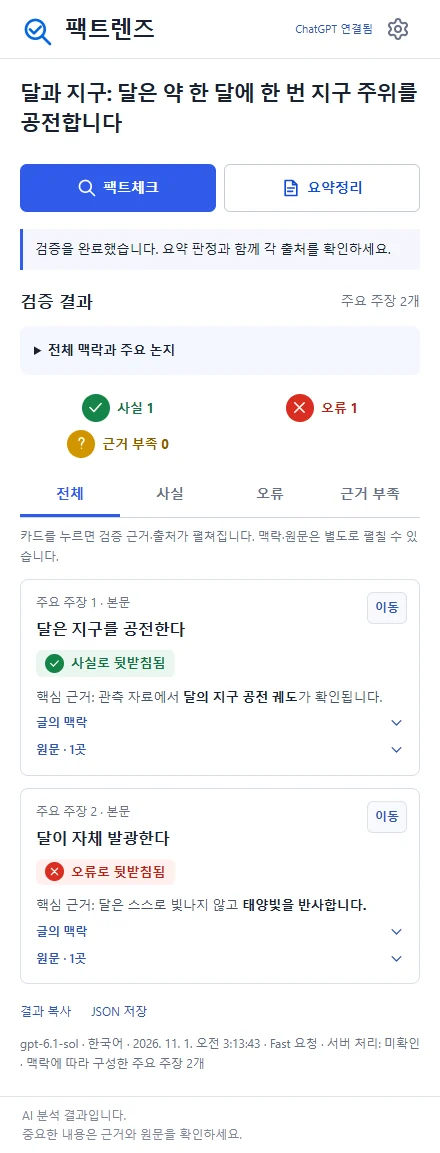
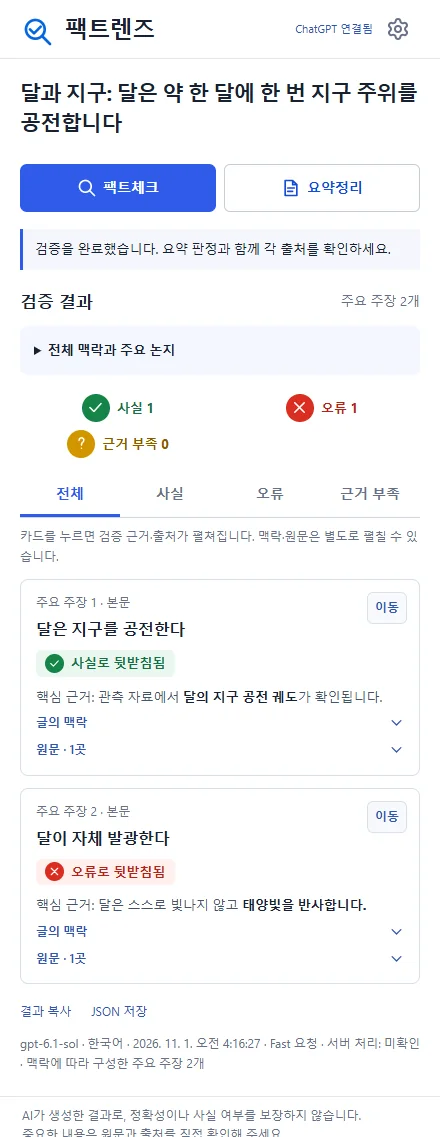
Release Fact Lens 0.1.20 privacy link and AI accuracy disclaimer

diff --git a/day-017-fact-lens/README.md b/day-017-fact-lens/README.md
@@ -7,13 +7,13 @@
 <p align="center">읽던 글, 근거까지.<br>페이지 옆에서 팩트체크하고 요약하세요.</p>
 
 <p align="center">
-  <a href="https://github.com/hssum9409/daily_odd_builds-public/releases/tag/day017-fact-lens-v0.1.19"><img alt="버전 0.1.19" src="https://img.shields.io/badge/version-0.1.19-2955df"></a>
+  <a href="https://github.com/hssum9409/daily_odd_builds-public/releases/tag/day017-fact-lens-v0.1.20"><img alt="버전 0.1.20" src="https://img.shields.io/badge/version-0.1.20-2955df"></a>
   <img alt="Windows Chrome 검증" src="https://img.shields.io/badge/Windows_Chrome-tested-2955df">
   <img alt="ZIP 수동 설치" src="https://img.shields.io/badge/install-ZIP-343c50">
   <img alt="원본 소스 비공개" src="https://img.shields.io/badge/source-private-343c50">
 </p>
 
-<p align="center"><b><a href="https://github.com/hssum9409/daily_odd_builds-public/releases/download/day017-fact-lens-v0.1.19/fact-lens-0.1.19.zip">Chrome 확장 ZIP 다운로드 →</a></b> · <a href="docs/INSTALLATION.md">설치·업데이트 안내</a> · <a href="docs/PRIVACY.md">데이터 처리</a></p>
+<p align="center"><b><a href="https://github.com/hssum9409/daily_odd_builds-public/releases/download/day017-fact-lens-v0.1.20/fact-lens-0.1.20.zip">Chrome 확장 ZIP 다운로드 →</a></b> · <a href="docs/INSTALLATION.md">설치·업데이트 안내</a> · <a href="https://daily-odd-builds-portal.web.app/privacy/fact-lens">개인정보취급방침</a></p>
 
 ![팩트렌즈 — 페이지와 오른쪽 사이드패널을 표현한 대표 일러스트](docs/images/hero.webp)
 
@@ -70,7 +70,7 @@ Daily Odd Builds **Day 017 · 2026-10-28**. 첫 ZIP 공개는 2026-11-01이며, 
 
 검증이 필요하면 **팩트체크**, 먼저 글을 정리하고 싶으면 **요약정리**를 누릅니다. 진행 중인 기능의 버튼에만 진행 표시가 나타납니다. 페이지가 바뀌면 **페이지 내용 반영하기**를 눌러 새 내용을 읽습니다.
 
-톱니바퀴 설정에서 **언어, Fast, 최대 주장 수, 모델**을 바꿉니다. Fast는 기본으로 켜져 있으며 계정·모델 지원에 따라 일반 처리로 복구하고 결과에 알립니다. 원문 인용은 원래 언어로 유지합니다.
+톱니바퀴 설정에서 **언어, Fast, 최대 주장 수, 모델**을 바꿉니다. 설정 맨 아래의 작은 **개인정보취급방침** 링크로 공개 방침을 열 수 있습니다. Fast는 기본으로 켜져 있으며 계정·모델 지원에 따라 일반 처리로 복구하고 결과에 알립니다. 원문 인용은 원래 언어로 유지합니다.
 
 <details>
 <summary>설정 화면 보기</summary>
@@ -83,7 +83,9 @@ Daily Odd Builds **Day 017 · 2026-10-28**. 첫 ZIP 공개는 2026-11-01이며, 
 
 ChatGPT 로그인은 OpenAI의 화면에서 진행합니다. 로그인 정보는 해당 Chrome 프로필 안에서 관리하고 갱신합니다. 팩트체크·요약을 실행하면 선택한 페이지의 본문·제목·맥락과 포함한 댓글·이미지가 OpenAI로 전송됩니다. 팩트체크는 외부 웹 검색도 사용합니다. 민감한 글은 전송 내용을 먼저 확인해 주세요.
 
-페이지를 읽기 위한 **모든 사이트 접근 권한**을 요청합니다. 페이지 방문만으로 본문을 자동 업로드하지 않습니다. 입력 중인 폼·비밀번호·작성 초안 등은 추출에서 제외하도록 처리합니다. 오류 리포트는 별도 서버로 **사용자가 전송할 때만** 보내며 본문·URL·제목·계정·토큰을 포함하지 않습니다. [전체 데이터 처리 안내](docs/PRIVACY.md)
+페이지를 읽기 위한 **모든 사이트 접근 권한**을 요청합니다. 페이지 방문만으로 본문을 자동 업로드하지 않습니다. 입력 중인 폼·비밀번호·작성 초안 등은 추출에서 제외하도록 처리합니다. 오류 리포트는 별도 서버로 **사용자가 전송할 때만** 보내며 본문·URL·제목·계정·토큰을 포함하지 않습니다. [개인정보취급방침](https://daily-odd-builds-portal.web.app/privacy/fact-lens) · [간단한 데이터 처리 안내](docs/PRIVACY.md)
+
+패널 하단에는 **AI가 생성한 결과로, 정확성이나 사실 여부를 보장하지 않습니다.**라는 안내를 작은 글씨로 표시합니다. 중요한 내용은 원문과 출처를 직접 확인해 주세요.
 
 ## 지원 범위와 확인한 한계
 

diff --git a/day-017-fact-lens/docs/INSTALLATION.md b/day-017-fact-lens/docs/INSTALLATION.md
@@ -4,7 +4,7 @@
 
 ## 처음 설치
 
-1. [0.1.19 ZIP 다운로드](https://github.com/hssum9409/daily_odd_builds-public/releases/download/day017-fact-lens-v0.1.19/fact-lens-0.1.19.zip).
+1. [0.1.20 ZIP 다운로드](https://github.com/hssum9409/daily_odd_builds-public/releases/download/day017-fact-lens-v0.1.20/fact-lens-0.1.20.zip).
 2. 계속 보관할 폴더에 압축을 풉니다. 예: `문서/팩트렌즈`. 파일 탐색기에서 ZIP 안을 열어 보기만 하는 것으로는 설치되지 않습니다.
 3. Chrome에서 `chrome://extensions`를 엽니다.
 4. 오른쪽 위 **개발자 모드**를 켭니다.
@@ -18,7 +18,7 @@
 
 ## 업데이트하면서 로그인·설정 유지
 
-1. [팩트렌즈 전용 릴리즈](https://github.com/hssum9409/daily_odd_builds-public/releases/tag/day017-fact-lens-v0.1.19)의 ZIP을 받습니다. 저장소 전체의 Latest는 다른 Day일 수 있습니다.
+1. [팩트렌즈 전용 릴리즈](https://github.com/hssum9409/daily_odd_builds-public/releases/tag/day017-fact-lens-v0.1.20)의 ZIP을 받습니다. 저장소 전체의 Latest는 다른 Day일 수 있습니다.
 2. **처음 설치에 사용한 같은 폴더**에 새 파일을 덮어씁니다.
 3. `chrome://extensions`에서 기존 팩트렌즈의 **새로고침**을 누르고 패널을 다시 엽니다.
 

diff --git a/README.md b/README.md
@@ -117,7 +117,7 @@ Chrome Manifest V3 · 설치 후보 사전 공개 · 실제 게임 인증/티어
 
 읽던 페이지의 핵심 주장과 외부 근거를 Chrome 사이드패널에서 확인하고, 선택한 언어로 요약합니다. ChatGPT 계정 연결, 이미지·댓글 맥락과 원문 이동을 지원합니다.
 
-[ZIP 다운로드 · 0.1.19](https://github.com/hssum9409/daily_odd_builds-public/releases/tag/day017-fact-lens-v0.1.19) · [소개·수동 설치 방법](day-017-fact-lens/README.md) · [데이터 처리](day-017-fact-lens/docs/PRIVACY.md) · [포털](https://daily-odd-builds-portal.web.app/detail?id=day-2026-10-28)
+[ZIP 다운로드 · 0.1.20](https://github.com/hssum9409/daily_odd_builds-public/releases/tag/day017-fact-lens-v0.1.20) · [소개·수동 설치 방법](day-017-fact-lens/README.md) · [개인정보취급방침](https://daily-odd-builds-portal.web.app/privacy/fact-lens) · [포털](https://daily-odd-builds-portal.web.app/detail?id=day-2026-10-28)
 
 Windows Chrome 검증 · 개발자 모드로 압축 해제 폴더를 로드하는 파일 배포 · 원본 소스 비공개.
 <!-- day017:end -->

diff --git a/day-017-fact-lens/docs/PRIVACY.md b/day-017-fact-lens/docs/PRIVACY.md
@@ -1,6 +1,8 @@
 # 팩트렌즈 데이터 처리 안내
 
-적용 버전 0.1.19 · 2026-11-01
+적용 버전 0.1.20 · 2026-11-01
+
+[전체 개인정보취급방침](https://daily-odd-builds-portal.web.app/privacy/fact-lens). 아래는 기능별 데이터 처리의 간단한 안내입니다.
 
 ## 페이지 읽기와 AI 처리
 
